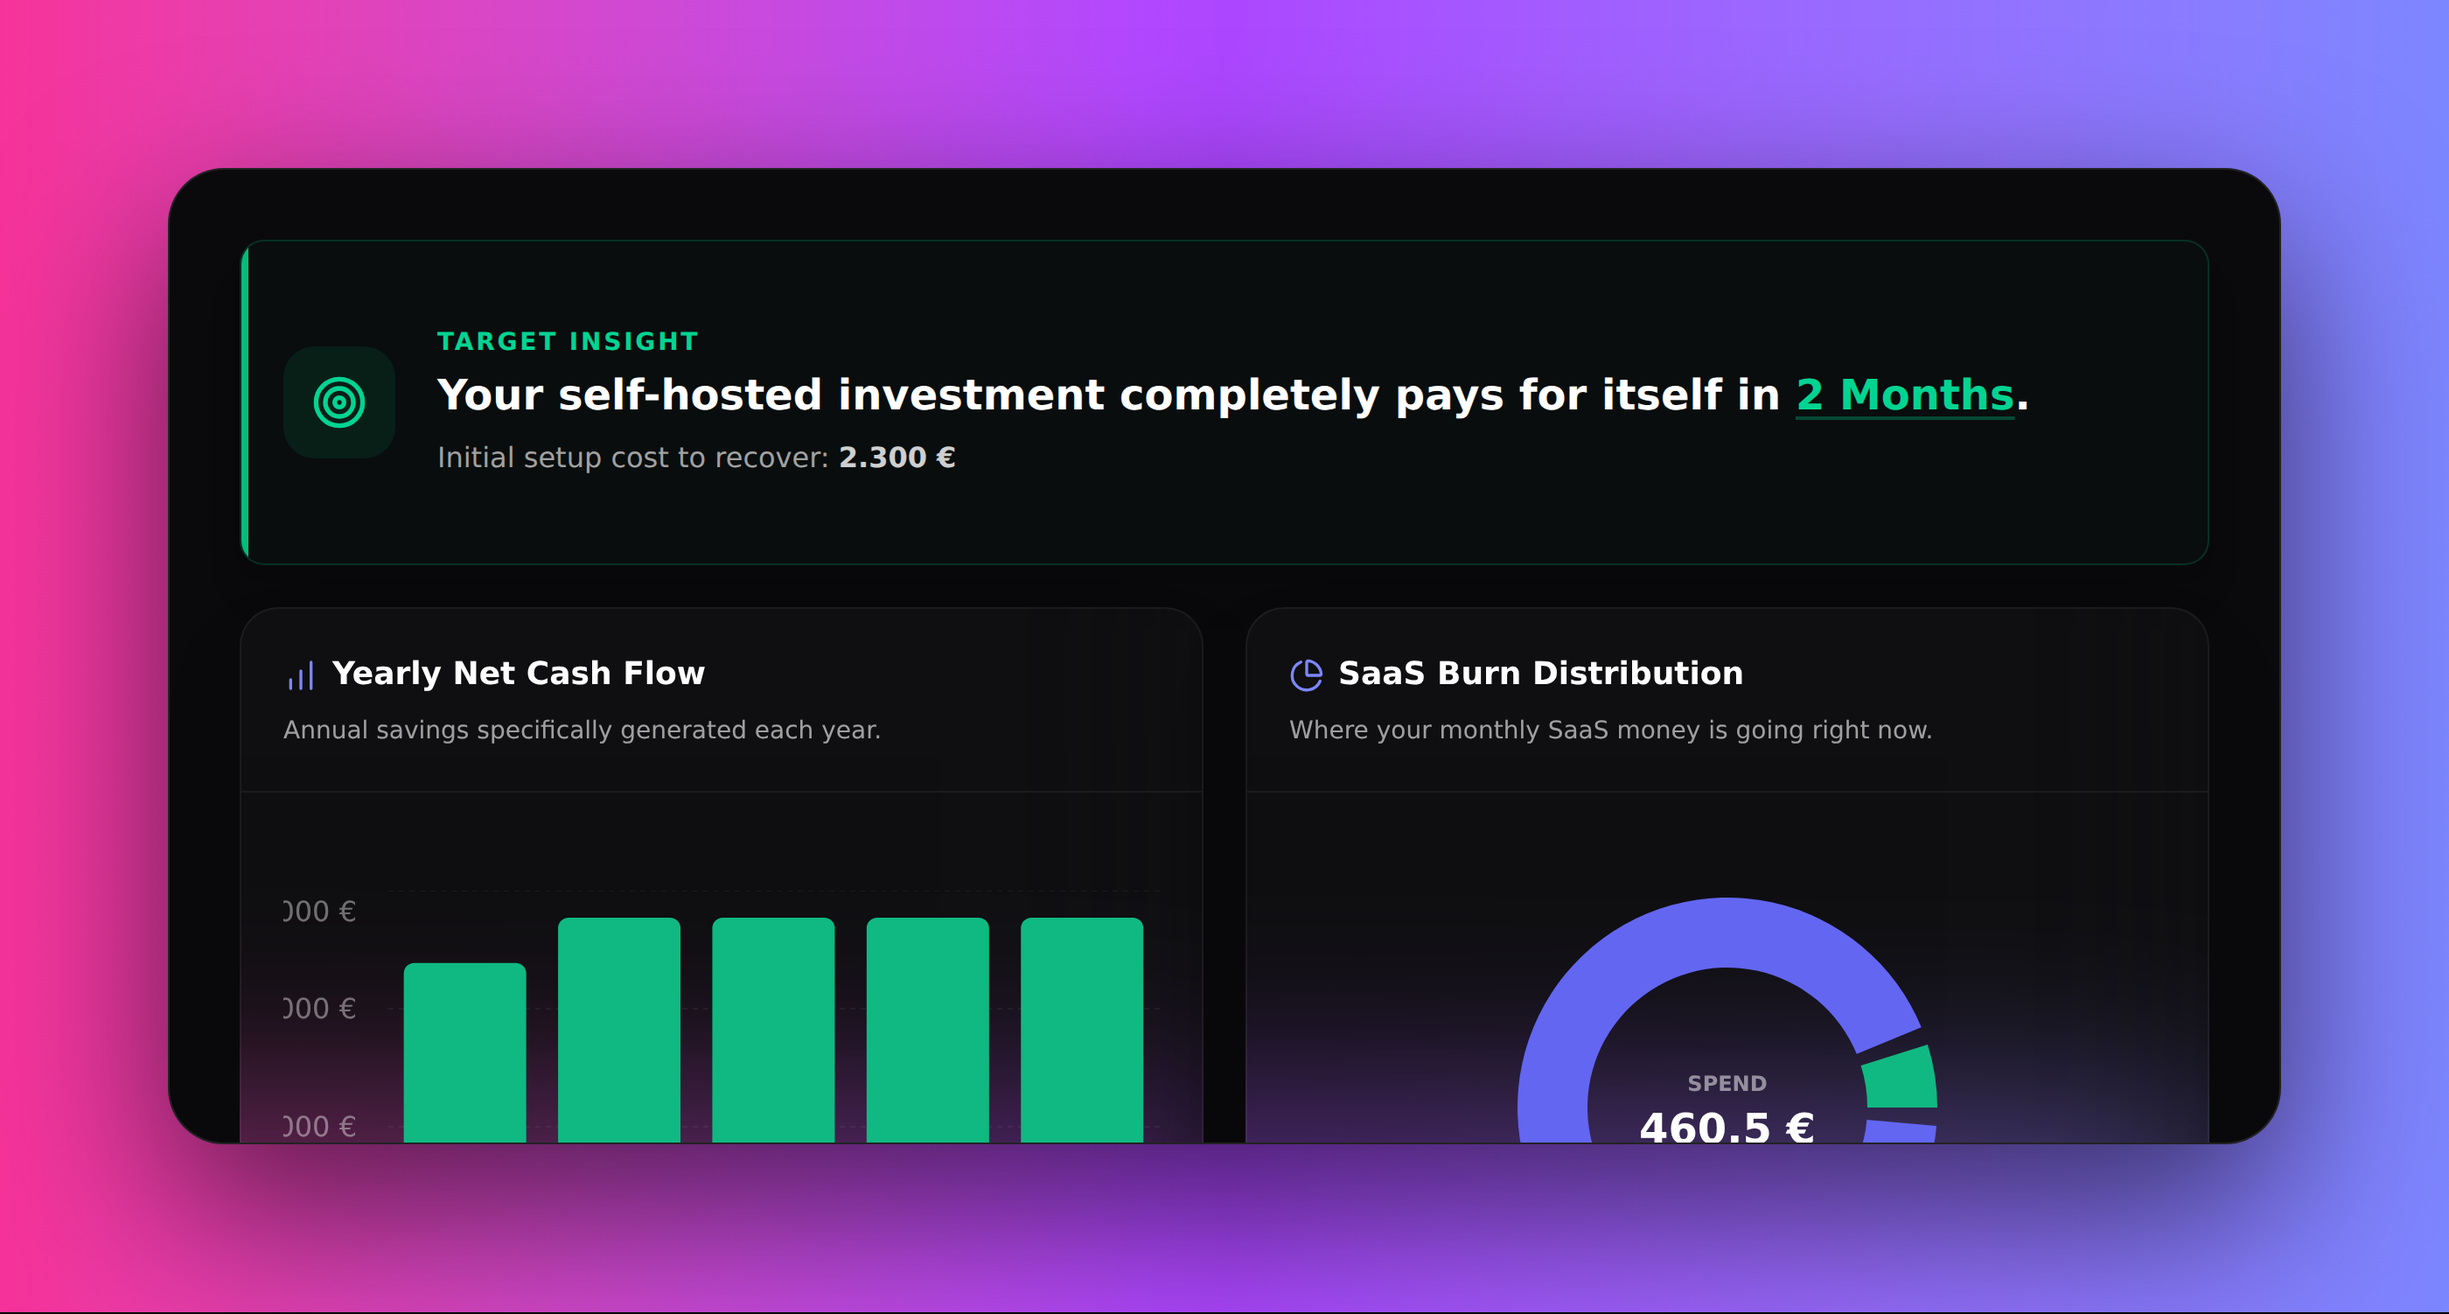
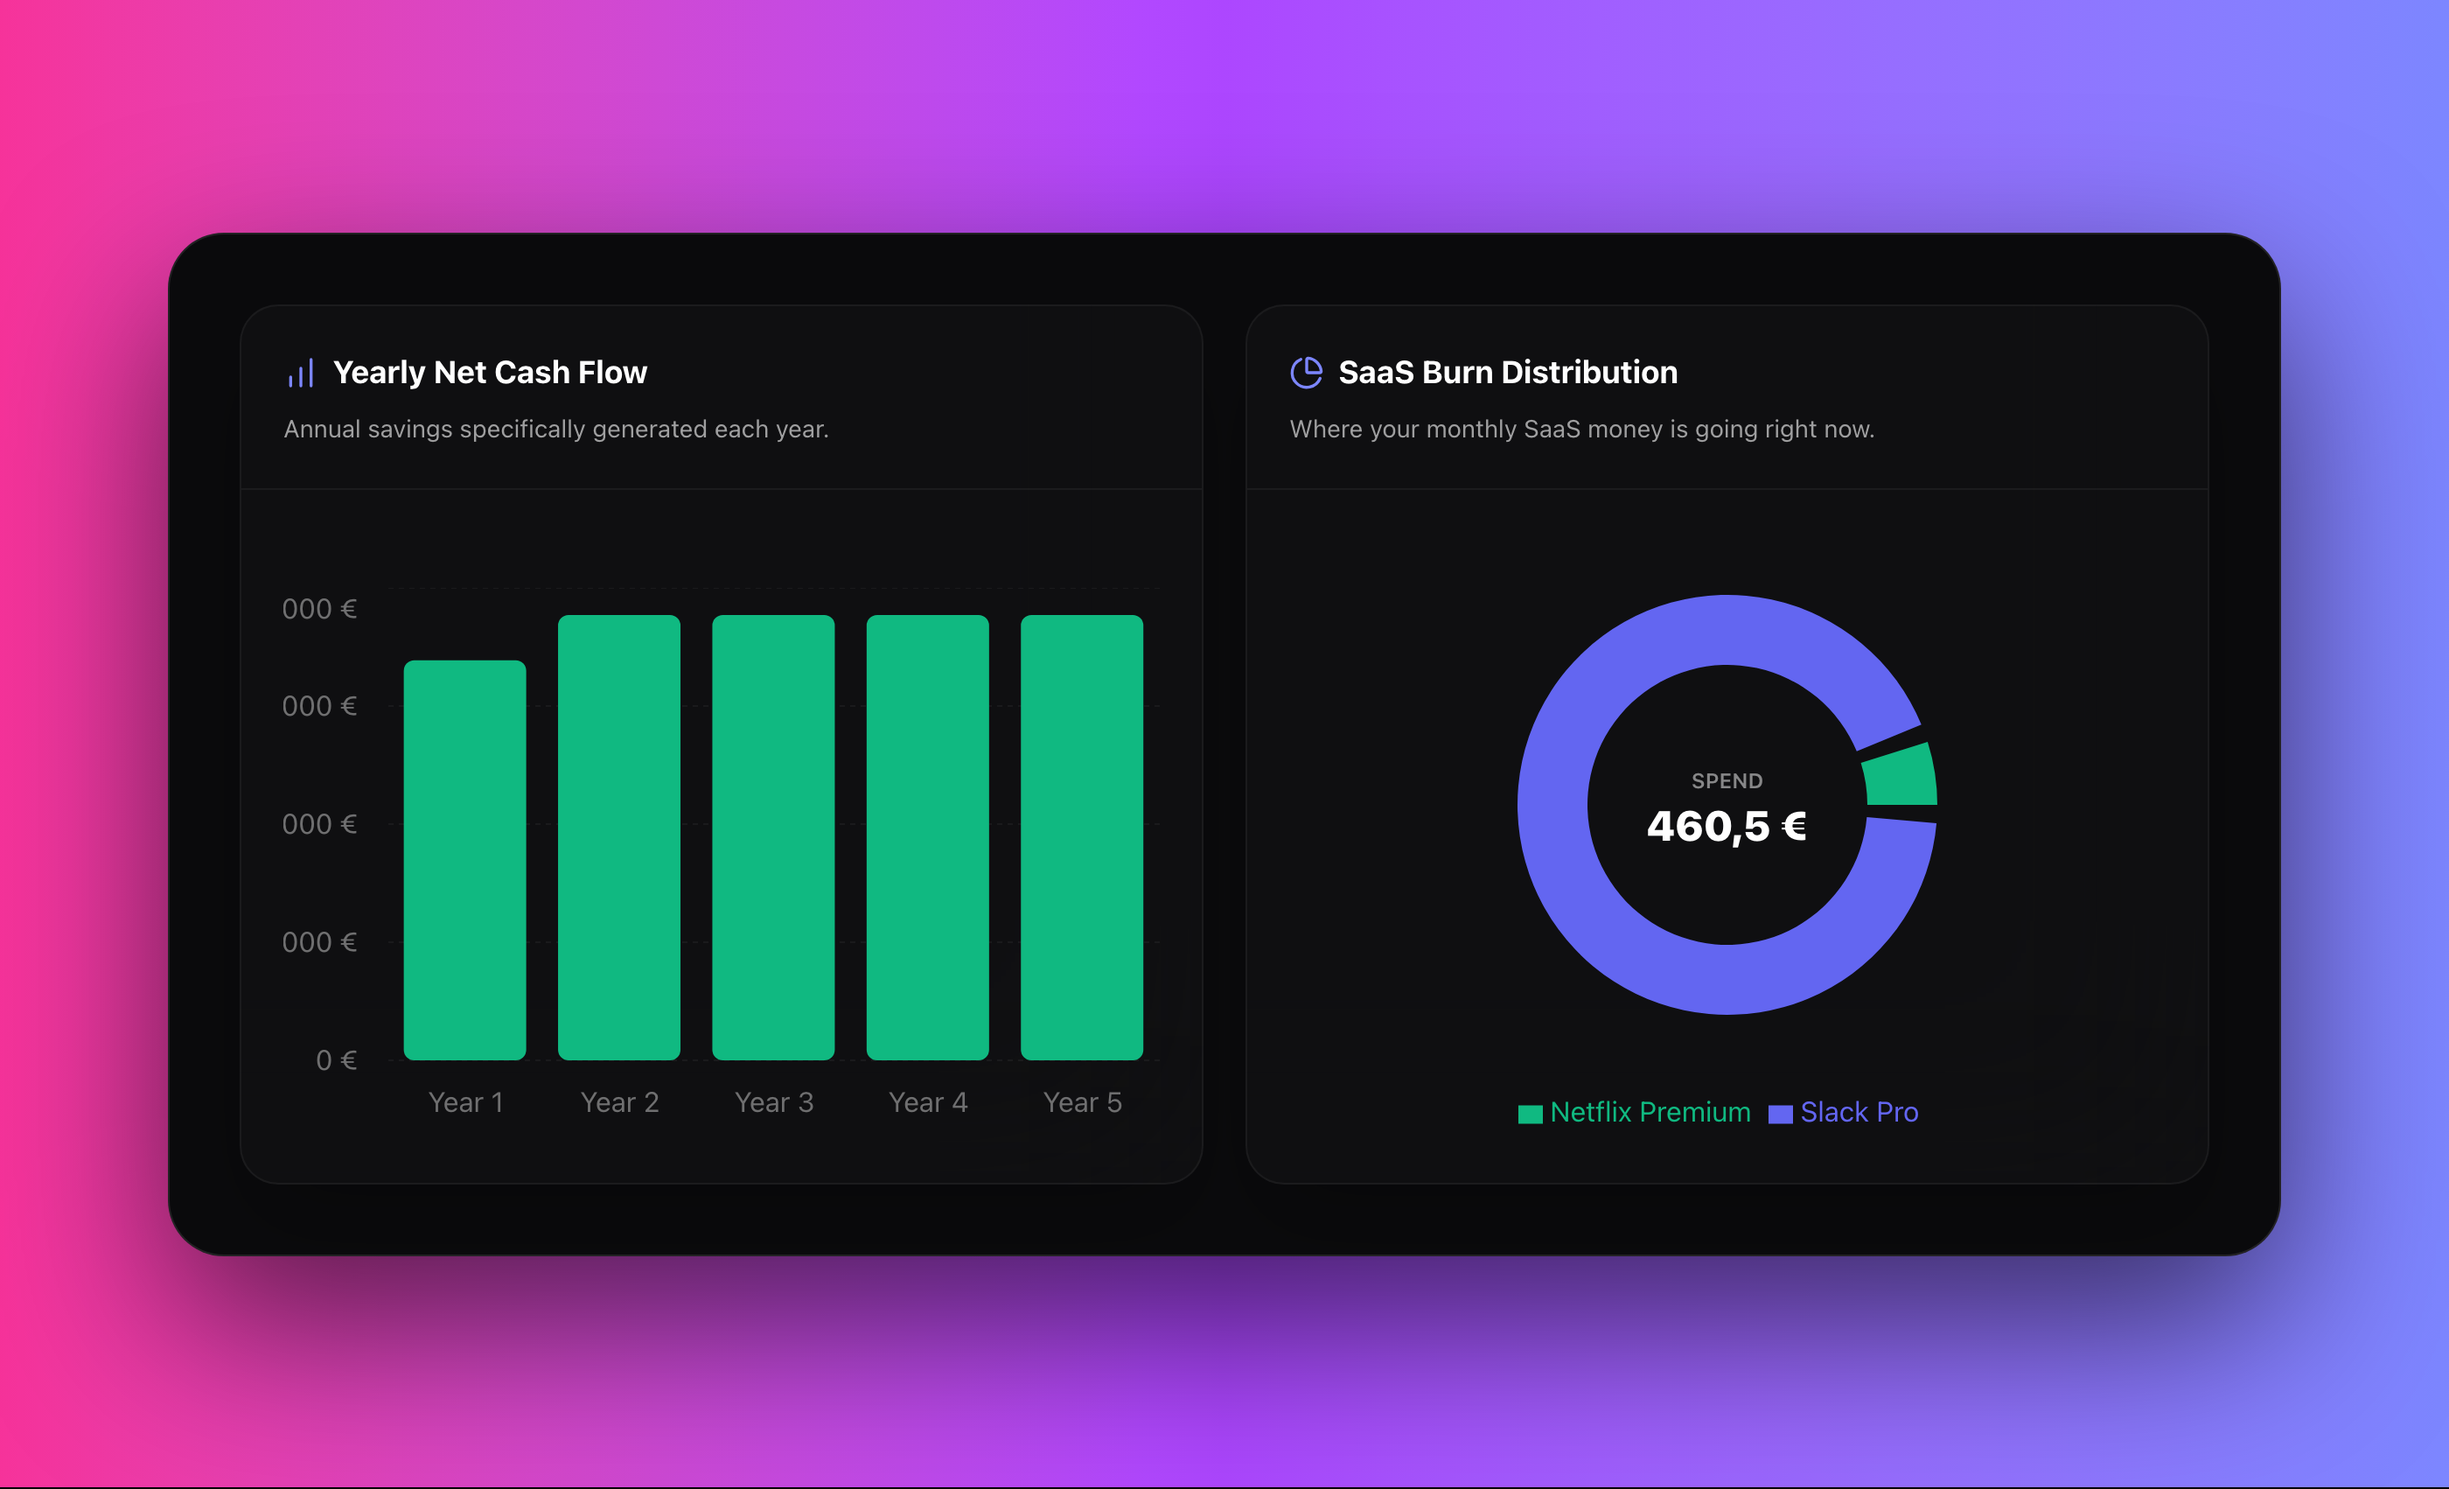
fix: eliminate duplicate insight component on marketing screenshots, equalize heights

diff --git a/src/app/marketing-studio/page.tsx b/src/app/marketing-studio/page.tsx
@@ -97,18 +97,18 @@ export default function MarketingStudio() {
       </div>
 
       {/* SHOT 2: Area Chart Tracker */}
-      <div id="shot-2" className="w-[1400px] h-[750px] p-24 bg-gradient-to-tr from-indigo-500 via-fuchsia-500 to-pink-200 flex flex-col items-center justify-center">
+      <div id="shot-2" className="w-[1400px] h-[850px] p-24 bg-gradient-to-tr from-indigo-500 via-fuchsia-500 to-pink-200 flex flex-col items-center justify-center">
         <BrowserShell>
           <SavingsVisualizations projections={projections} subscriptions={subscriptions} currency={currency} hideBottomCharts />
         </BrowserShell>
       </div>
 
       {/* SHOT 3: Bottom Analytics */}
-      <div id="shot-3" className="w-[1400px] h-[750px] p-24 bg-gradient-to-r from-pink-500 via-purple-500 to-indigo-400 flex flex-col items-center justify-center">
+      <div id="shot-3" className="w-[1400px] h-[850px] p-24 bg-gradient-to-r from-pink-500 via-purple-500 to-indigo-400 flex flex-col items-center justify-center">
         <BrowserShell>
            <div className="space-y-6">
-                 {/* This renders just the bar and pie chart grids */}
-                 <SavingsVisualizations projections={projections} subscriptions={subscriptions} currency={currency} hideAreaChart />
+                 {/* This renders just the bar and pie chart grids without the command center */}
+                 <SavingsVisualizations projections={projections} subscriptions={subscriptions} currency={currency} hideAreaChart hideCommandCenter />
            </div>
            <div className="hidden">
               <QualitativeBenefits />

diff --git a/src/components/calculator/SavingsVisualizations.tsx b/src/components/calculator/SavingsVisualizations.tsx
@@ -13,11 +13,12 @@ interface SavingsVisualizationsProps {
   currency: 'USD' | 'EUR';
   hideAreaChart?: boolean;
   hideBottomCharts?: boolean;
+  hideCommandCenter?: boolean;
 }
 
 const COLORS = ['#10b981', '#6366f1', '#f43f5e', '#f59e0b', '#3b82f6', '#8b5cf6', '#14b8a6', '#f97316'];
 
-export function SavingsVisualizations({ projections, subscriptions = [], currency, hideAreaChart, hideBottomCharts }: SavingsVisualizationsProps) {
+export function SavingsVisualizations({ projections, subscriptions = [], currency, hideAreaChart, hideBottomCharts, hideCommandCenter }: SavingsVisualizationsProps) {
   
   const year1 = projections[12] || projections[projections.length - 1];
   const year3 = projections[36] || projections[projections.length - 1];
@@ -66,7 +67,7 @@ export function SavingsVisualizations({ projections, subscriptions = [], currenc
     <div className="space-y-6">
       
       {/* Visual Insights Command Center */}
-      {(totalSetupCost > 0 || breakEvenProj) && (
+      {!hideCommandCenter && (totalSetupCost > 0 || breakEvenProj) && (
         <Card className="border-emerald-500/20 bg-emerald-500/[0.02] shadow-xl overflow-hidden relative">
           <div className="absolute top-0 left-0 w-1 h-full bg-emerald-500 rounded-l-lg"></div>
           <CardContent className="p-6">
